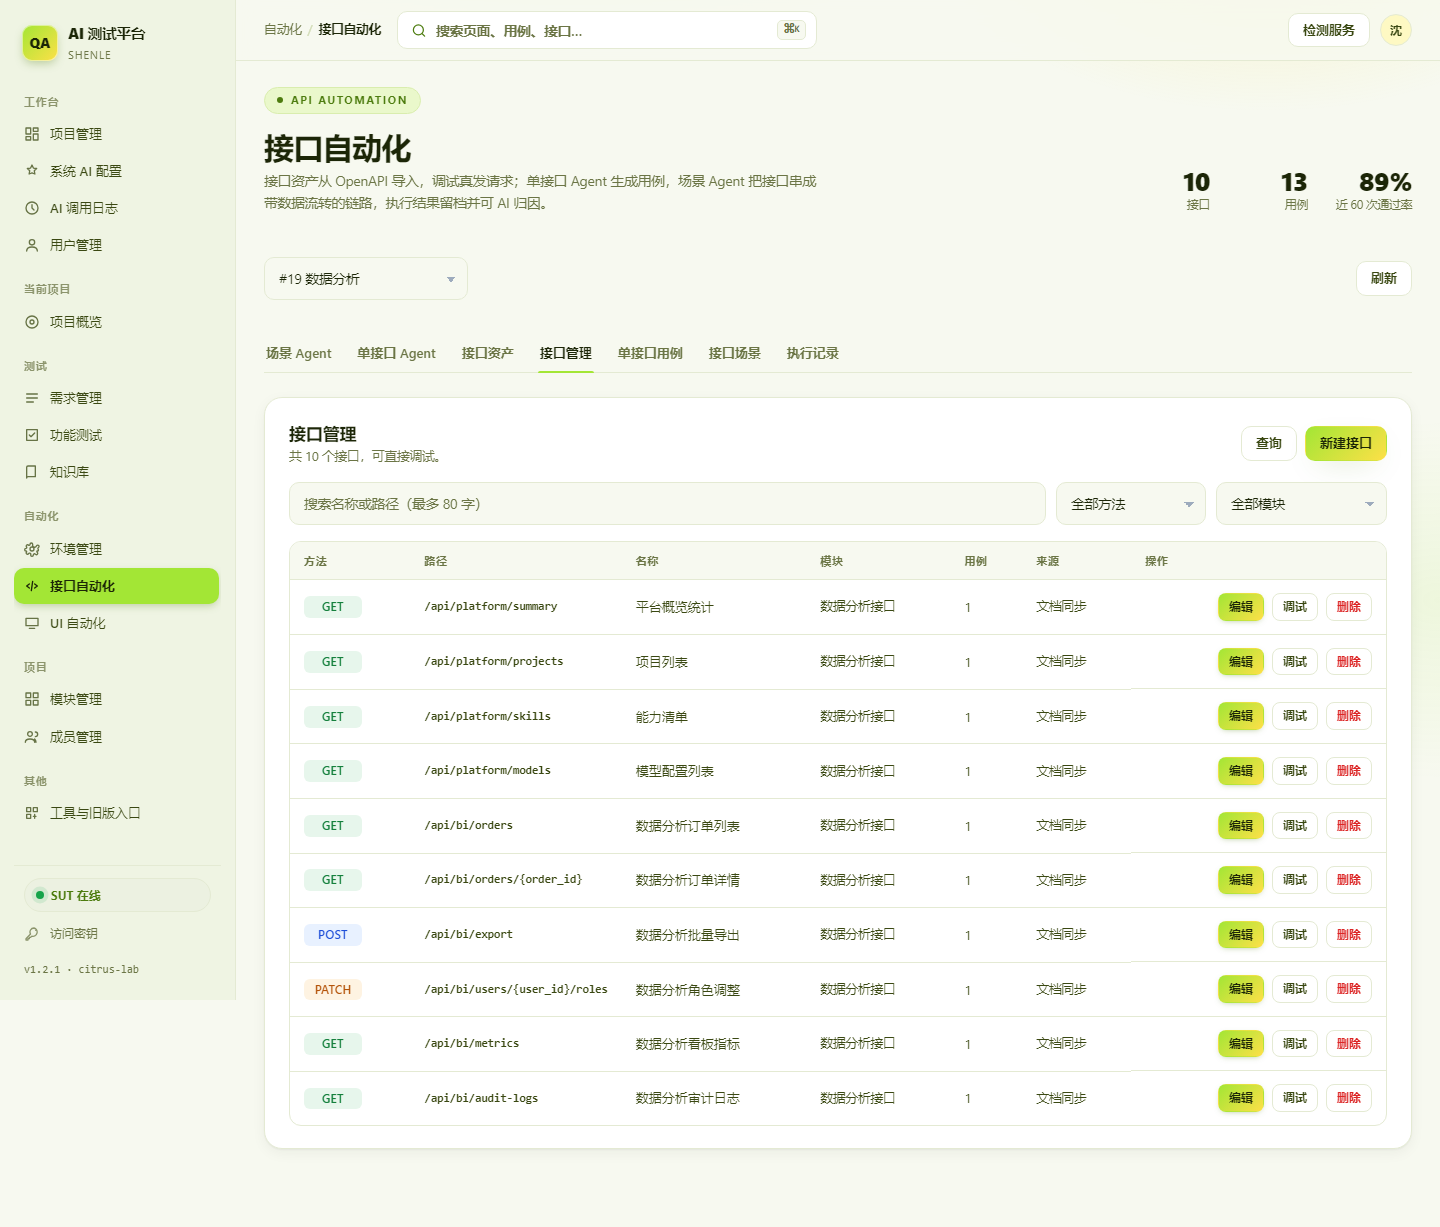
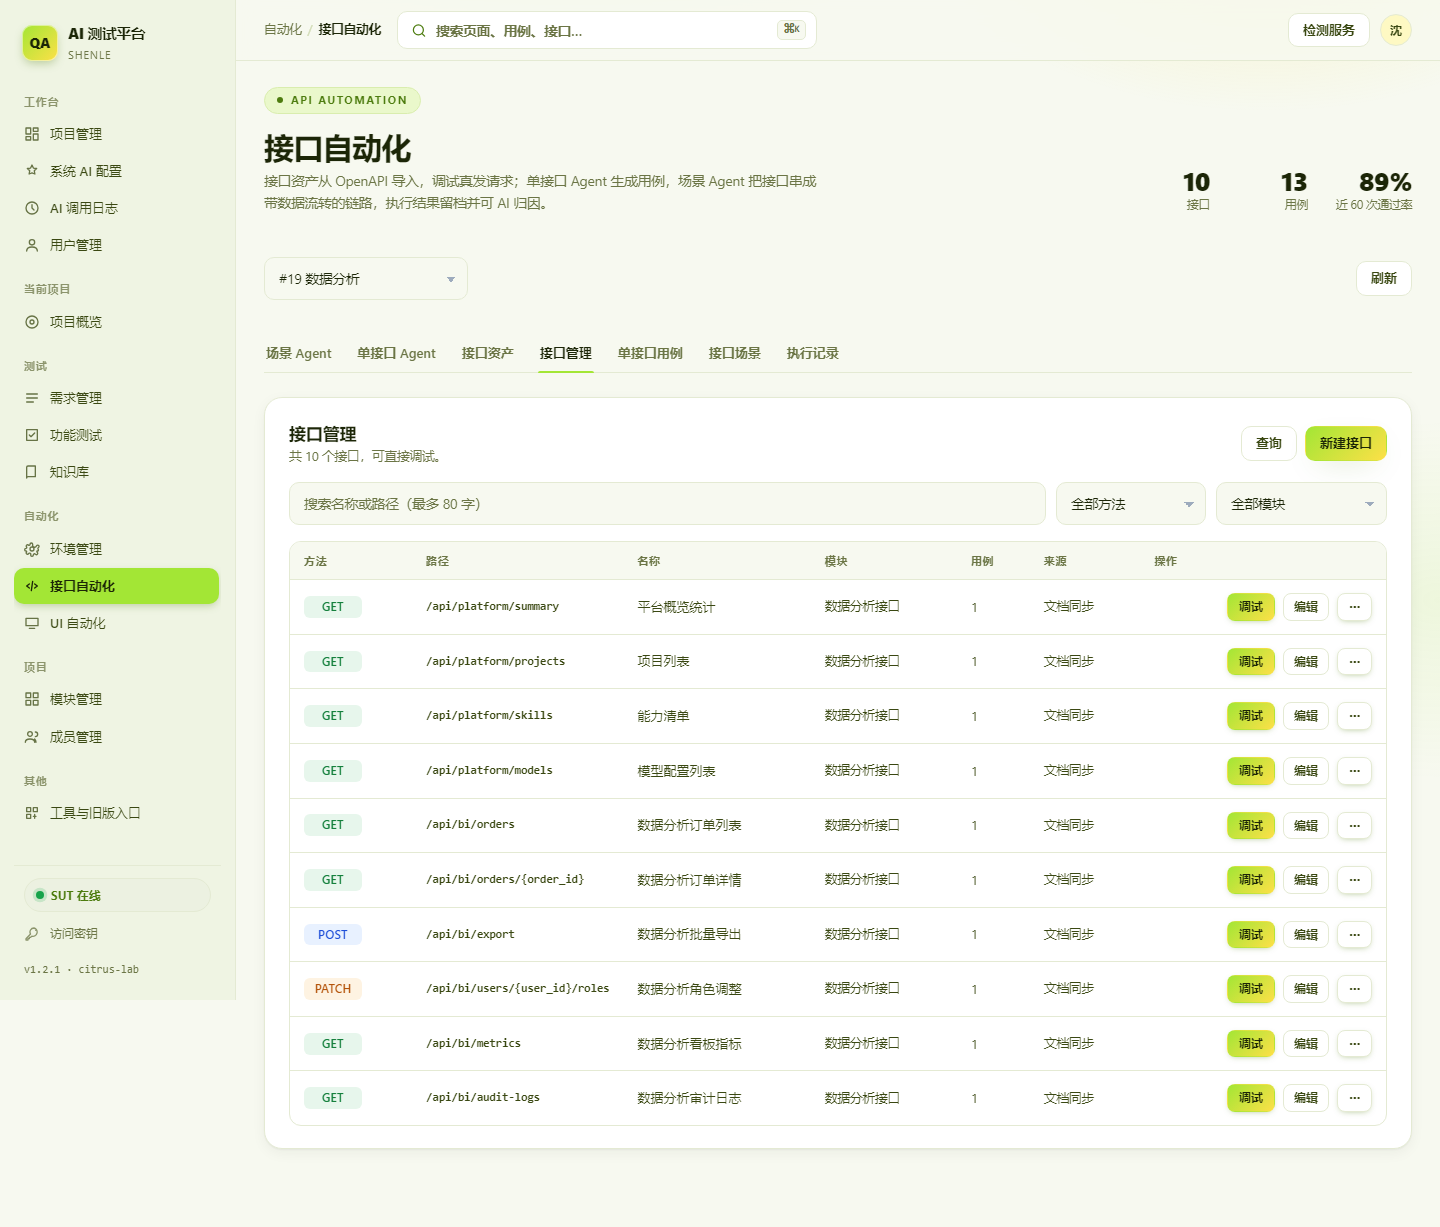
docs(ui): record the empty-state, skeleton and row-menu round

diff --git a/docs/ui-citrus/README.md b/docs/ui-citrus/README.md
@@ -35,18 +35,46 @@
 - **表格操作列**：每行第一个操作是实心 lime 主按钮，其余保持 ghost。
 - 其余页面沿用原结构，只吃新令牌与组件样式。
 
+## 排查与收尾（第二轮）
+
+### 1. 空态
+
+新增 `components/EmptyState.vue`（lime 圆形图标 + 标题 + 说明 + 可选主按钮），替换了五处：
+
+| 位置 | 文案 |
+| --- | --- |
+| 功能测试 | 这个筛选条件下没有用例 →「去生成用例」 |
+| 需求管理 | 还没有需求 →「新建需求」 |
+| 接口自动化（接口管理） | 没有匹配的接口 →「新建接口」 |
+| UI 自动化（UI 用例） | 还没有 UI 用例 →「去 AI 探索」 |
+| AI 调用日志 | 还没有调用记录 |
+
+### 2. 加载态
+
+接口管理的接口表、UI 用例表都接上了 `.skeleton-row`（5 行占位 + 扫光）；加上原有的需求 / 功能 / 知识库，主列表已不再「先闪空态再出数据」。
+
+### 3. 操作列收纳
+
+新增 `components/RowMenu.vue`（`⋯` + 绝对定位气泡，点外部自动关闭）：
+
+- 功能测试：`编辑`（实心）+ `⋯ 删除用例`
+- 需求管理：`打开`（实心）+ `⋯ 删除需求`
+- 接口管理：`调试`（实心）+ `编辑` + `⋯ 删除接口`
+
+CSS 用 `.row-actions > .btn:first-child` 限定只让直接子级的主操作实心，避免把 `⋯` 也染成绿色。
+
 ## 验证
 
-| 项 | 结果 |
-| --- | --- |
-| 构建 | `✓ built in 7.4s` |
-| 后端测试 | `142 passed` |
-| 9 个页面截图 | `docs/ui-citrus/citrus-*.png` |
-| pageerror | 0 |
+| 项 | 本地 | 线上 |
+| --- | --- | --- |
+| 构建 | `✓ built in 7.0s` | Deploy complete |
+| 后端测试 | `142 passed` | — |
+| 截图 | `docs/ui-citrus/citrus-*.png`（含 `citrus-empty.png`、`citrus-rowmenu.png`） | `docs/ui-citrus/prod/` |
+| pageerror | 0 | 0 |
+| health / summary | — | ALL CHECKS PASSED |
 
-## 还没做（下一步）
+## 还没做
 
-1. **空态**：还没全部换成「实线框 + 40px 图标 + 主按钮」。
-2. **加载态**：只有需求 / 功能 / 知识库三个列表有 skeleton，接口与 UI 自动化仍会闪空态。
-3. **表格操作列**：初级操作还没收进 `⋯` 收纳菜单（现在是「实心 + 若干个 ghost」并列）。
-4. 角色/状态徽章目前统一 lime-soft，还没按语义分色。
+1. `⋯` 收纳只覆盖了三张主表；用户 / 模块 / 成员 / UI 用例 / 执行记录仍是并列按钮。
+2. AI 调用日志只有空态，没有 skeleton。
+3. 角色 / 状态徽章仍是统一 lime-soft，没有按语义分色。
